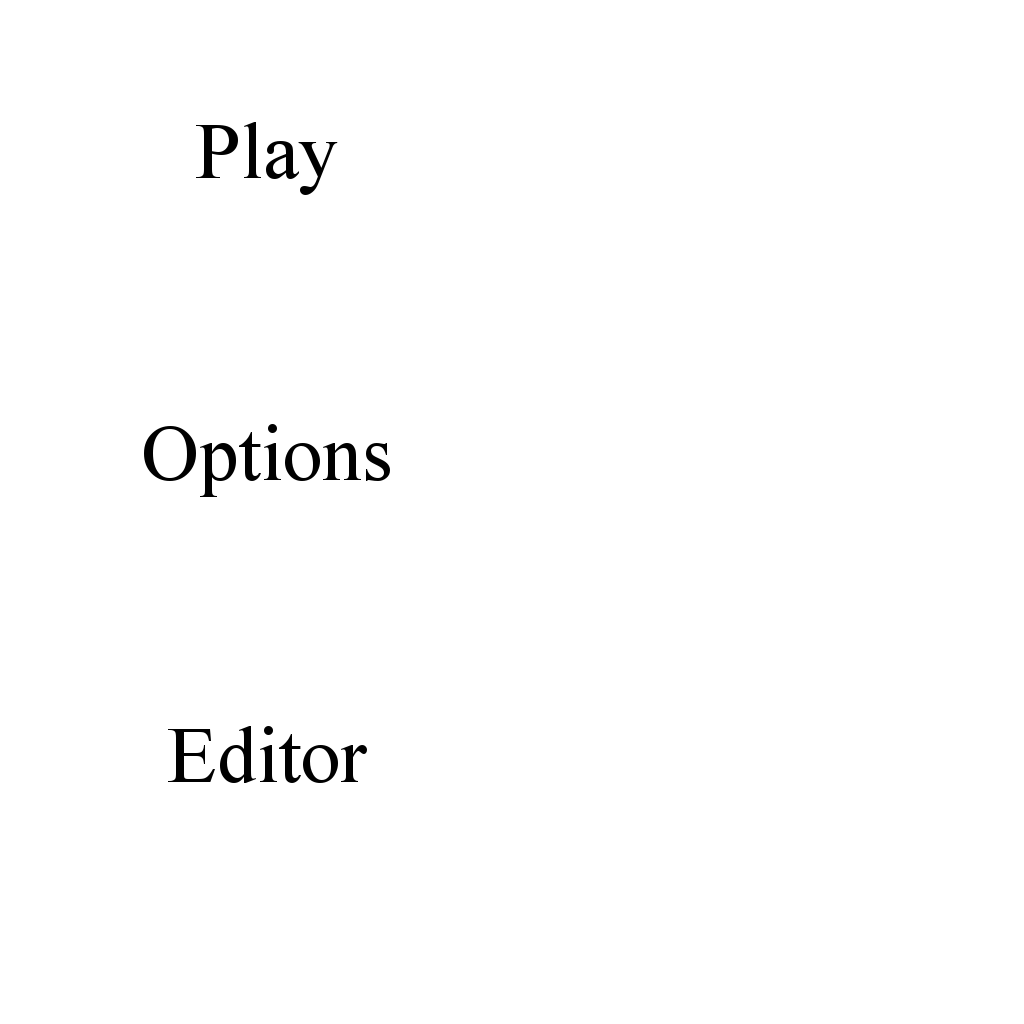
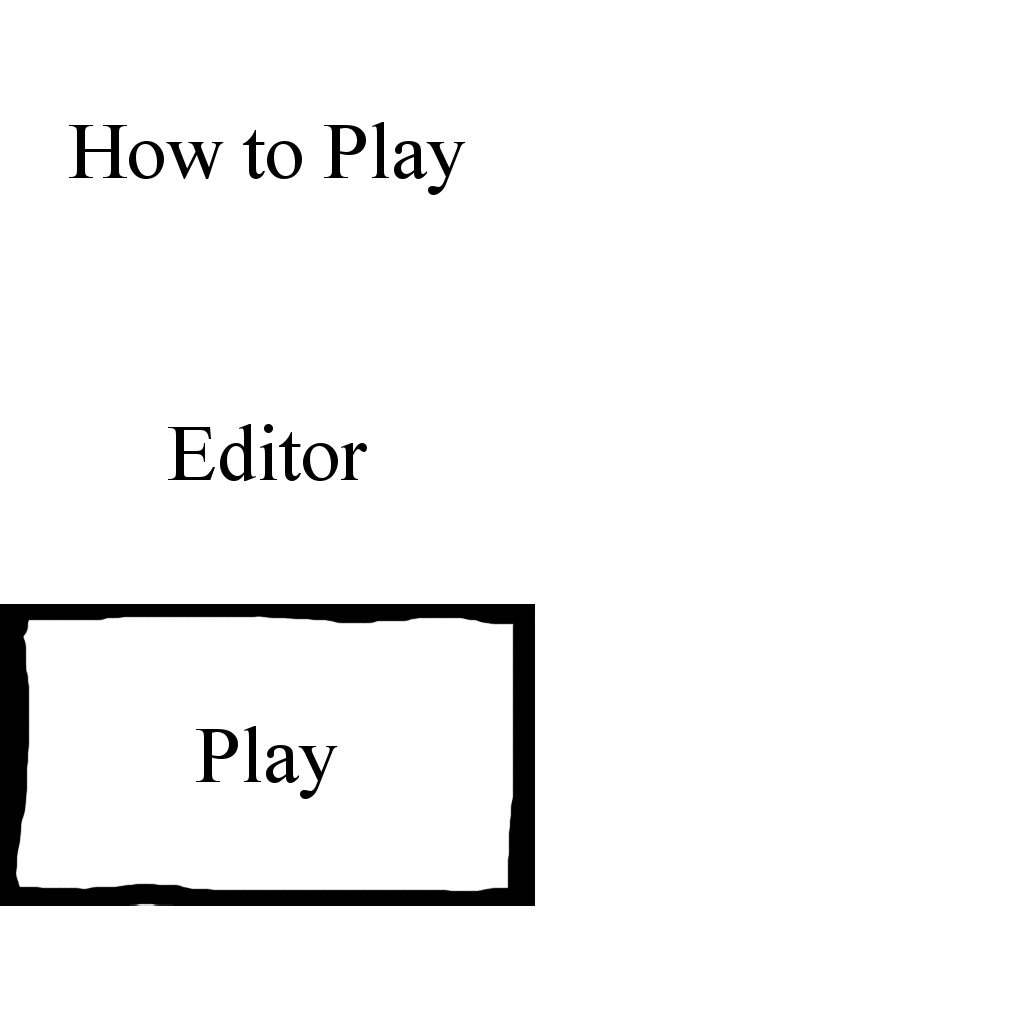
commit for merge

diff --git a/LibGDX_Generate/core/src/org/TheGivingChild/Engine/TGC_Engine.java b/LibGDX_Generate/core/src/org/TheGivingChild/Engine/TGC_Engine.java
@@ -3,7 +3,6 @@ package org.TheGivingChild.Engine;
 import com.badlogic.gdx.Game;
 import com.badlogic.gdx.Gdx;
 import com.badlogic.gdx.ScreenAdapter;
-import com.badlogic.gdx.graphics.Texture;
 import com.badlogic.gdx.graphics.g2d.BitmapFont;
 import com.badlogic.gdx.graphics.g2d.TextureAtlas;
 import com.badlogic.gdx.scenes.scene2d.Actor;
@@ -18,8 +17,8 @@ public class TGC_Engine extends Game {
 	final static int BUTTON_STATES = 2;//corresponds to how many states each button has for the Buttons.pack textures pack.
 	//create the stage for our actors
 	private Stage stage;
-	private String[] buttonAtlasNamesArray = {"ButtonPressed_MainScreen_Play", "Button_MainScreen_Play",/* "ButtonPressed_MainScreen_Editor", "Button_MainScreen_Editor",*/ "ButtonPressed_MainScreen_Options", "Button_MainScreen_Options"};
-	private ScreenAdapter[] screens = {new ScreenLevelManager(), new OptionsScreen(this)};
+	private String[] buttonAtlasNamesArray = {"ButtonPressed_MainScreen_Play", "Button_MainScreen_Play", "ButtonPressed_MainScreen_HowToPlay", "Button_MainScreen_HowToPlay", /* "ButtonPressed_MainScreen_Editor", "Button_MainScreen_Editor",*/ "ButtonPressed_MainScreen_Options", "Button_MainScreen_Options"};
+	private ScreenAdapter[] screens = {new ScreenLevelManager(this), new HowToPlay(this), new OptionsScreen(this)};
 	//fonts
     //private BitmapFont font;
     

diff --git a/LibGDX_Generate/core/src/org/TheGivingChild/Engine/ScreenLevelManager.java b/LibGDX_Generate/core/src/org/TheGivingChild/Engine/ScreenLevelManager.java
@@ -1,10 +1,15 @@
 package org.TheGivingChild.Engine;
 
+import com.badlogic.gdx.Game;
 import com.badlogic.gdx.Gdx;
 import com.badlogic.gdx.ScreenAdapter;
 import com.badlogic.gdx.graphics.GL20;
 
 public class ScreenLevelManager extends ScreenAdapter{
+	public ScreenLevelManager(Game game) {
+		// TODO Auto-generated constructor stub
+	}
+	
 	@Override
 	public void render(float delta) {
 		Gdx.gl.glClearColor(1,0,1,1);
